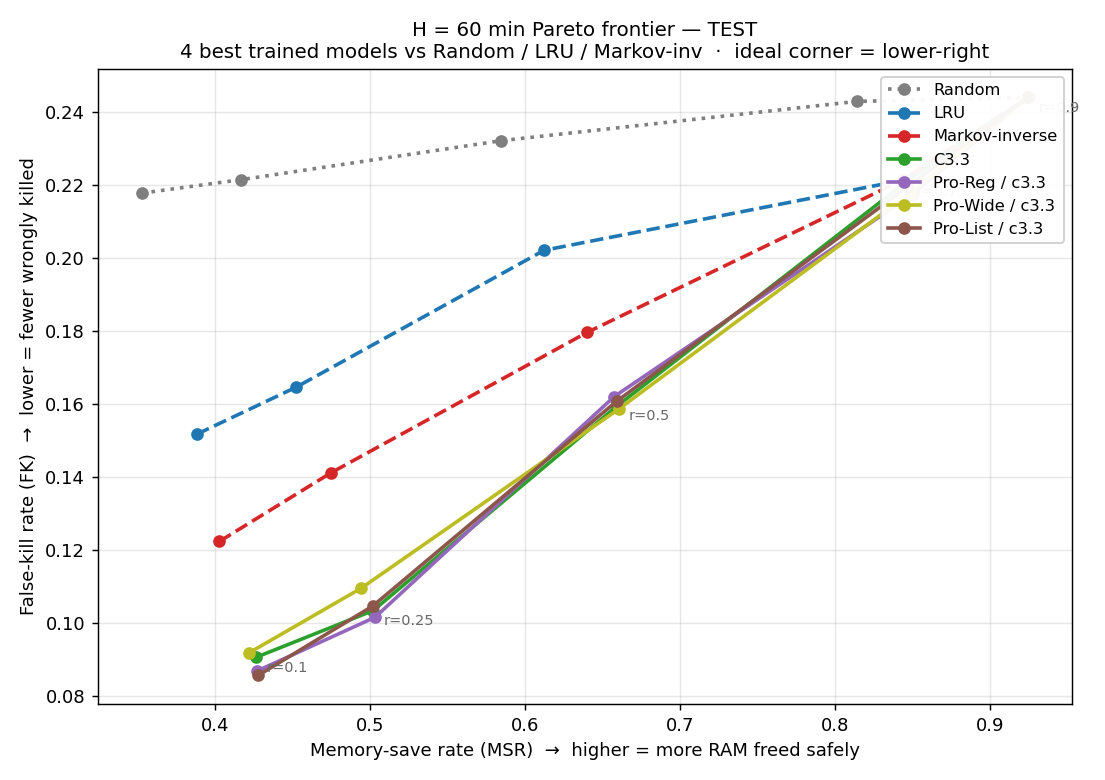
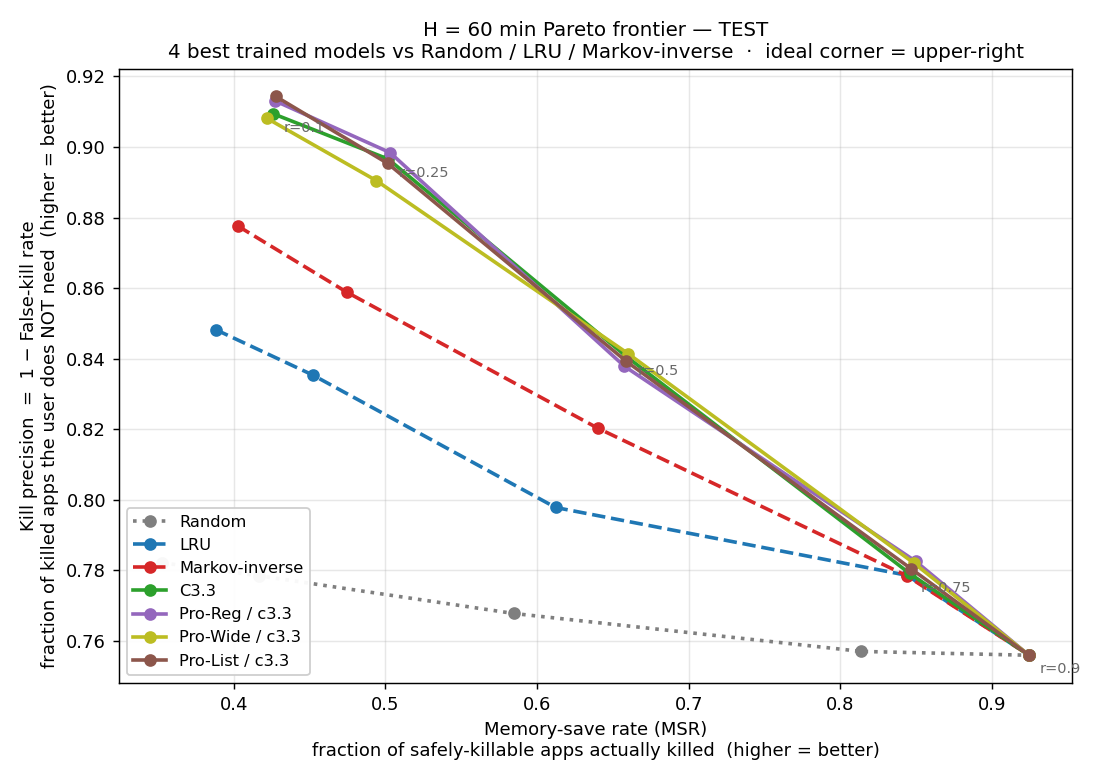
Pareto figure: switch y-axis to kill precision (1−FK)
The previous Pareto plot put False-kill rate on the y-axis with
plt.gca().invert_yaxis(), which reads weirdly — the y tick labels go
0.08 → 0.24 top-to-bottom and force the reader to think upside-down.

Switch the y-axis to "kill precision = 1 − FK" so both axes are
"higher is better" and the y-numbers ascend naturally bottom-to-top.
Ideal corner moves from lower-right to upper-right.

Update §5.4's "How to read this figure" caption and the test/val
read-outs to match the new axis convention.

diff --git a/app_usage_data/scripts/39_pareto_focused.py b/app_usage_data/scripts/39_pareto_focused.py
@@ -62,24 +62,25 @@ def plot_one(split):
     for label, kind, key, color, ls in ROWS:
         m = metrics_for(kind, key, split)
         msr, fk = points(m)
-        plt.plot(msr, fk, marker="o", color=color, linestyle=ls,
+        # Plot 1 - FK on the y-axis so both axes are "higher is better"
+        kp = [1.0 - v for v in fk]   # kill-precision = fraction of kills that were safe
+        plt.plot(msr, kp, marker="o", color=color, linestyle=ls,
                  linewidth=2.0, markersize=6, label=label)
         if label == "C3.3":
-            for r, x, y in zip(R_SWEEP, msr, fk):
+            for r, x, y in zip(R_SWEEP, msr, kp):
                 plt.annotate(f"r={r}", xy=(x, y),
-                             xytext=(6, -8), textcoords="offset points",
+                             xytext=(6, -10), textcoords="offset points",
                              fontsize=8, color="dimgray")
-    plt.xlabel("Memory-save rate (MSR)  →  higher = more RAM freed safely",
+    plt.xlabel("Memory-save rate (MSR)\n"
+               "fraction of safely-killable apps actually killed  (higher = better)",
                fontsize=10)
-    plt.ylabel("False-kill rate (FK)  →  lower = fewer wrongly killed",
+    plt.ylabel("Kill precision  =  1 − False-kill rate\n"
+               "fraction of killed apps the user does NOT need  (higher = better)",
                fontsize=10)
     plt.title(f"H = 60 min Pareto frontier — {split.upper()}\n"
-              f"4 best trained models vs Random / LRU / Markov-inv  ·  ideal corner = lower-right",
+              f"4 best trained models vs Random / LRU / Markov-inverse  ·  ideal corner = upper-right",
               fontsize=11)
-    # y-axis is NOT inverted: numbers increase top→bottom naturally.
-    # Low FK still ends up at the bottom because FK values are smaller for the
-    # better models, which puts them in the lower portion of the plot.
-    plt.legend(loc="upper right", fontsize=9, framealpha=0.95)
+    plt.legend(loc="lower left", fontsize=9, framealpha=0.95)
     plt.grid(True, alpha=0.3)
     plt.tight_layout()
     out = FIG / f"pareto_h60_focused_{split}.png"
